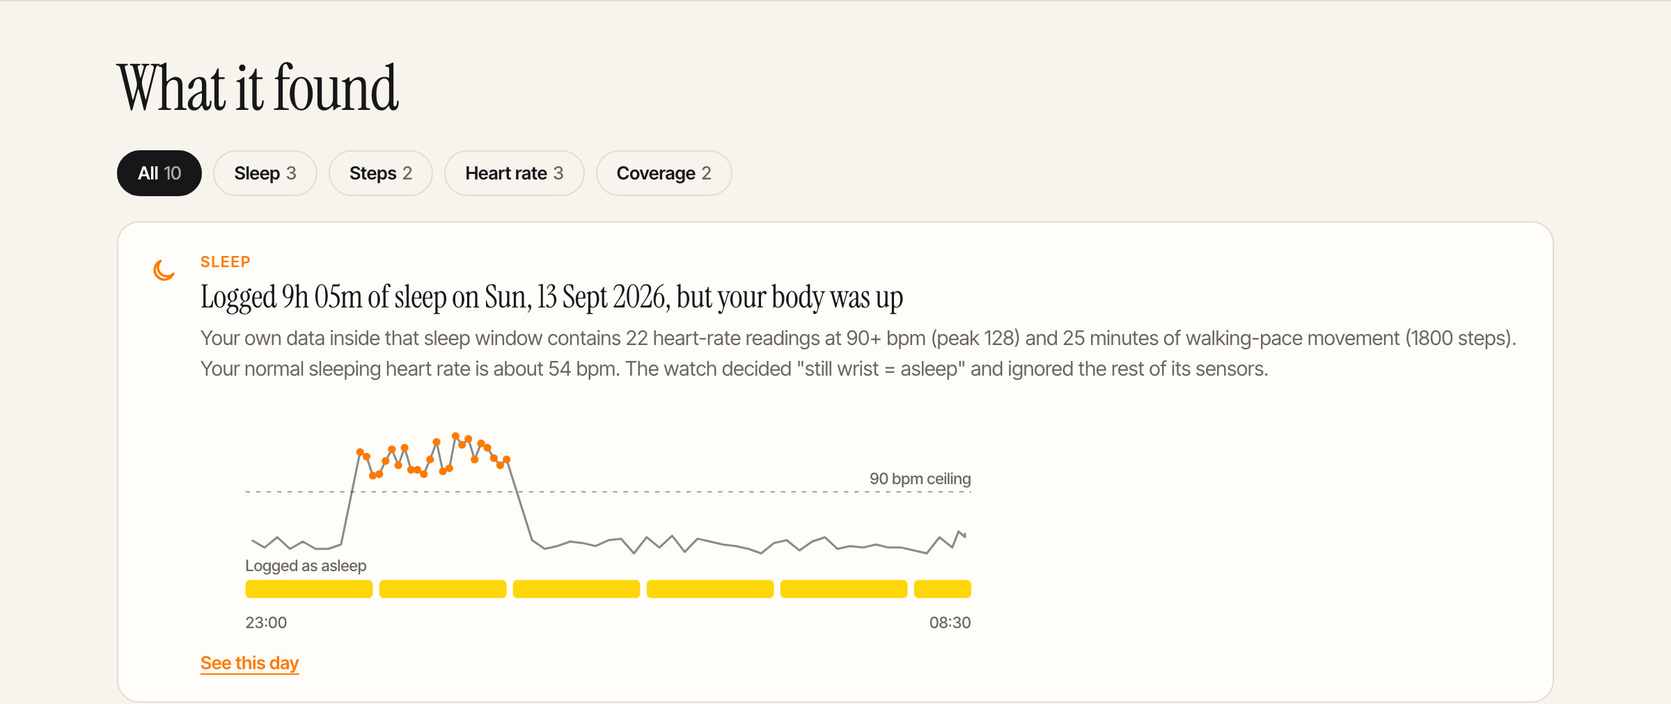
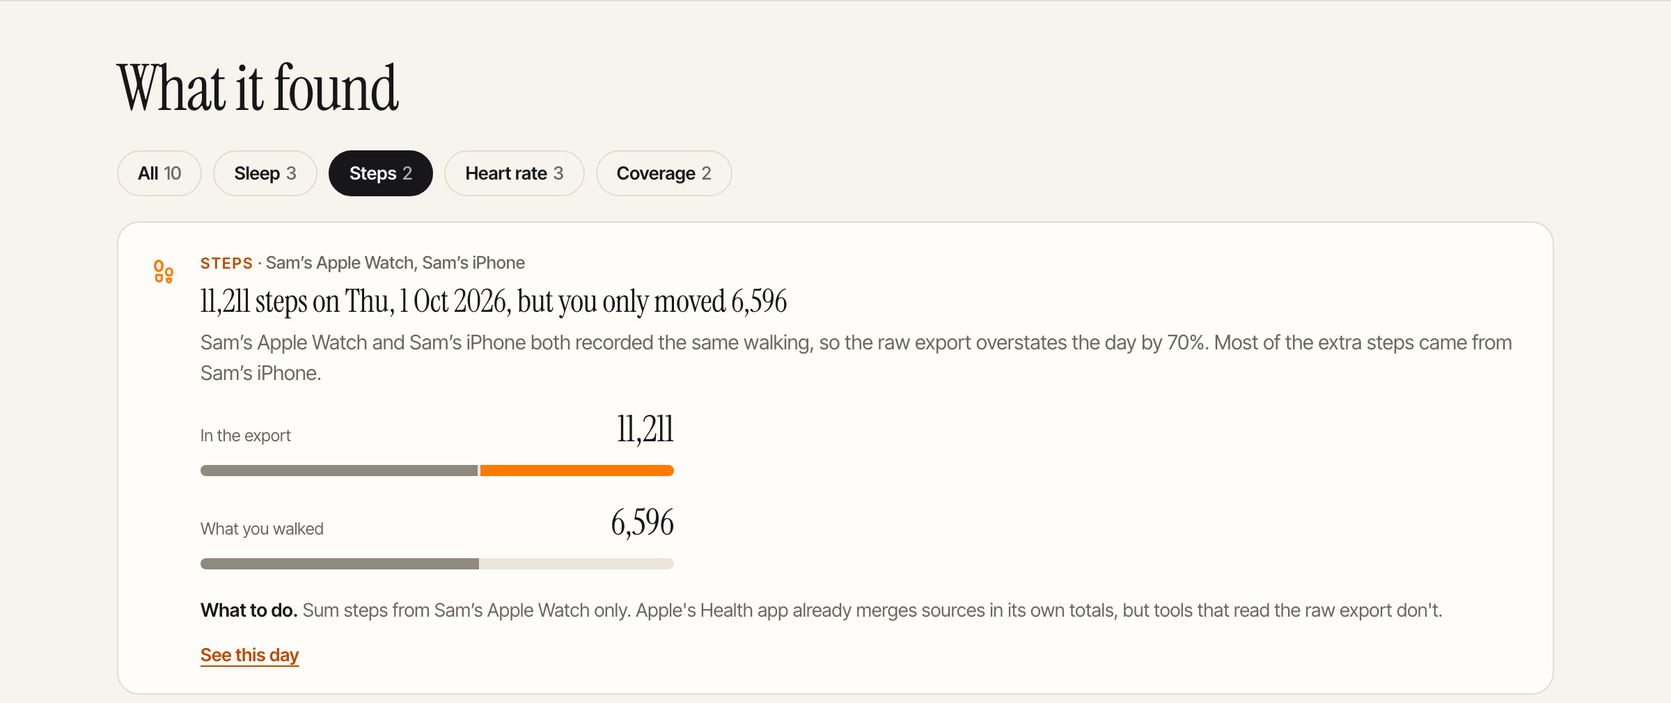
Name the sources behind each finding
The analyzer now tracks the sourceName of every step, heart-rate and sleep
record. Findings say which source recorded a glitch, which sources logged
the same night, and which source added the extra steps, and each ends with
a plain 'What to do' line. A new 'Where your data comes from' section lists
every source with its counts and explains the step overlap. Tests cover the
attribution and a single-source export that must claim no overlap.

diff --git a/analyzer.js b/analyzer.js
@@ -36,6 +36,8 @@
   const fmtDay = (di) => new Date(di * 86400000).toLocaleDateString('en-GB', { weekday: 'short', day: 'numeric', month: 'short', year: 'numeric', timeZone: 'UTC' });
   const hhmm = (min) => new Date(min * 60000).toISOString().slice(11, 16);
   const clamp = (x, lo, hi) => Math.max(lo, Math.min(hi, x));
+  const joinNames = (a) => a.length < 3 ? a.join(' and ') : a.slice(0, -1).join(', ') + ' and ' + a[a.length - 1];
+  const KIND = ['watch', 'phone', 'other'];
 
   /* ---------- streaming XML parser ---------- */
   function createParser(analyzer) {
@@ -66,7 +68,16 @@
   /* ---------- analyzer ---------- */
   function createAnalyzer() {
     const steps = new Map(); // day index -> Float32Array(3 * 1440): watch, phone, other per minute
-    const hrRaw = { t: [], v: [], c: [] };
+    const hrRaw = { t: [], v: [], c: [], n: [] };
+    const names = [], nameIdx = new Map(), srcCls = [], srcStat = [];   // one entry per sourceName
+    function srcId(name, c) {
+      let i = nameIdx.get(name);
+      if (i === undefined) {
+        i = Math.min(names.length, 65534); nameIdx.set(name, i);
+        if (i === names.length) { names.push(name); srcCls.push(c); srcStat.push({ steps: 0, hr: 0, sleep: 0 }); }
+      }
+      return i;
+    }
     const sleepRaw = [];
     const workoutRaw = [];
     const counts = { steps: 0, hr: 0, sleep: 0, workouts: 0 };
@@ -81,20 +92,20 @@
     function addRecord(a) {
       if (!a.startDate || !a.endDate) return;
       const t = a.type, s = parseTime(a.startDate);
-      const c = srcClass(a.sourceName || '');
+      const nm = a.sourceName || 'Unknown source', c = srcClass(nm), sid = srcId(nm, c);
       if (t === T_STEPS) {
         const v = +a.value; if (!(v >= 0)) return;
         const e = Math.max(s + 1, parseTime(a.endDate)), dur = e - s;
-        counts.steps++;
+        counts.steps++; srcStat[sid].steps++;
         if (dur <= 30) { const per = v / dur; for (let m = s; m < e; m++) addStep(m, c, per); }
         else addStep(s, c, v);
       } else if (t === T_HR) {
         const v = +a.value; if (!isFinite(v)) return;
-        hrRaw.t.push(s); hrRaw.v.push(v); hrRaw.c.push(c); counts.hr++;
+        hrRaw.t.push(s); hrRaw.v.push(v); hrRaw.c.push(c); hrRaw.n.push(sid); srcStat[sid].hr++; counts.hr++;
       } else if (t === T_SLEEP) {
         const val = a.value || '';
         const k = /InBed/.test(val) ? 0 : /Awake/.test(val) ? 2 : 1; // 0 in bed, 1 asleep, 2 awake
-        sleepRaw.push({ s, e: parseTime(a.endDate), k, c }); counts.sleep++;
+        sleepRaw.push({ s, e: parseTime(a.endDate), k, c, n: sid }); srcStat[sid].sleep++; counts.sleep++;
       }
     }
     function addWorkout(a) {
@@ -106,8 +117,8 @@
       /* sort heart rate */
       const n = hrRaw.t.length;
       const order = Array.from({ length: n }, (_, i) => i).sort((a, b) => hrRaw.t[a] - hrRaw.t[b]);
-      const ht = new Float64Array(n), hv = new Float32Array(n), hc = new Uint8Array(n);
-      for (let i = 0; i < n; i++) { const j = order[i]; ht[i] = hrRaw.t[j]; hv[i] = hrRaw.v[j]; hc[i] = hrRaw.c[j]; }
+      const ht = new Float64Array(n), hv = new Float32Array(n), hc = new Uint8Array(n), hn = new Uint16Array(n);
+      for (let i = 0; i < n; i++) { const j = order[i]; ht[i] = hrRaw.t[j]; hv[i] = hrRaw.v[j]; hc[i] = hrRaw.c[j]; hn[i] = hrRaw.n[j]; }
 
       /* time range */
       let minAll = Infinity, maxAll = -Infinity;
@@ -133,12 +144,12 @@
       const blipEv = [], impEv = [];
       for (let i = 0; i < n; i++) {
         const v = hv[i];
-        if (v < 30 || v > 230) { impossible++; dayBad[dayOf(ht[i])]++; impEv.push({ m: ht[i], v }); }
+        if (v < 30 || v > 230) { impossible++; dayBad[dayOf(ht[i])]++; impEv.push({ m: ht[i], v, sid: hn[i] }); }
         if (i > 0 && i < n - 1) {
           const p = hv[i - 1], nx = hv[i + 1];
           if (ht[i + 1] - ht[i - 1] <= 10 && Math.abs(v - p) >= 60 && Math.abs(v - nx) >= 60 && Math.abs(p - nx) <= 25 &&
               v >= 30 && v <= 230 && !inW(ht[i])) {
-            blips++; dayBad[dayOf(ht[i])]++; blipEv.push({ m: ht[i], v, p, nx });
+            blips++; dayBad[dayOf(ht[i])]++; blipEv.push({ m: ht[i], v, p, nx, sid: hn[i] });
           }
         }
       }
@@ -147,14 +158,16 @@
       blipEv.sort((a, b) => Math.abs(b.v - (b.p + b.nx) / 2) - Math.abs(a.v - (a.p + a.nx) / 2));
       for (const b of blipEv.slice(0, 2)) receipts.push({
         kind: 'hr', severity: 62, date: fmtDay(Math.floor(b.m / DAY)), day: Math.floor(b.m / DAY), chart: { type: 'blip', at: b.m, v: Math.round(b.v), pts: around(b.m, 20) },
+        sources: [names[b.sid]], fix: 'Check how snugly the band sits. Readings like this are usually a loose strap, and they are safe to filter out.',
         title: `Heart rate "jumped" to ${Math.round(b.v)} bpm for a single reading`,
-        detail: `At ${hhmm(b.m)} on ${fmtDay(Math.floor(b.m / DAY))} it read ${Math.round(b.p)}, then ${Math.round(b.v)}, then ${Math.round(b.nx)} bpm within minutes, outside any workout. A physiological spike doesn't reverse itself that fast; this is a sensor glitch (usually a loose strap).`
+        detail: `${names[b.sid]} recorded ${Math.round(b.p)}, then ${Math.round(b.v)}, then ${Math.round(b.nx)} bpm within minutes at ${hhmm(b.m)} on ${fmtDay(Math.floor(b.m / DAY))}, outside any workout. A physiological spike doesn't reverse itself that fast; this is a sensor glitch.`
       });
       impEv.sort((a, b) => Math.abs(b.v - 130) - Math.abs(a.v - 130));
       for (const b of impEv.slice(0, 2)) receipts.push({
         kind: 'hr', severity: 72, date: fmtDay(Math.floor(b.m / DAY)), day: Math.floor(b.m / DAY), chart: { type: 'blip', at: b.m, v: Math.round(b.v), pts: around(b.m, 20) },
+        sources: [names[b.sid]], fix: 'Check how snugly the band sits, and filter readings outside 30–230 bpm before averaging.',
         title: `An impossible heart rate: ${Math.round(b.v)} bpm`,
-        detail: `Recorded at ${hhmm(b.m)} on ${fmtDay(Math.floor(b.m / DAY))}. Outside 30–230 bpm isn't a plausible human reading; it's stored in your export all the same.`
+        detail: `${names[b.sid]} recorded this at ${hhmm(b.m)} on ${fmtDay(Math.floor(b.m / DAY))}. Outside 30–230 bpm isn't a plausible human reading; it's stored in your export all the same.`
       });
 
       /* ===== sleep vs. body ===== */
@@ -162,14 +175,14 @@
       const blocks = [];
       for (const iv of asl) {
         const b = blocks[blocks.length - 1];
-        if (b && iv.s <= b.e) { b.e = Math.max(b.e, iv.e); b.raw += iv.e - iv.s; b.cls |= 1 << iv.c; }
-        else blocks.push({ s: iv.s, e: iv.e, raw: iv.e - iv.s, cls: 1 << iv.c });
+        if (b && iv.s <= b.e) { b.e = Math.max(b.e, iv.e); b.raw += iv.e - iv.s; b.cls |= 1 << iv.c; b.srcs.add(iv.n); }
+        else blocks.push({ s: iv.s, e: iv.e, raw: iv.e - iv.s, cls: 1 << iv.c, srcs: new Set([iv.n]) });
       }
       const sessions = [];
       for (const b of blocks) {
         const cur = sessions[sessions.length - 1];
-        if (cur && b.s - cur.e <= 90) { cur.e = b.e; cur.blocks.push(b); cur.asleepMin += b.e - b.s; cur.raw += b.raw; cur.cls |= b.cls; }
-        else sessions.push({ s: b.s, e: b.e, blocks: [b], asleepMin: b.e - b.s, raw: b.raw, cls: b.cls });
+        if (cur && b.s - cur.e <= 90) { cur.e = b.e; cur.blocks.push(b); cur.asleepMin += b.e - b.s; cur.raw += b.raw; cur.cls |= b.cls; b.srcs.forEach((x) => cur.srcs.add(x)); }
+        else sessions.push({ s: b.s, e: b.e, blocks: [b], asleepMin: b.e - b.s, raw: b.raw, cls: b.cls, srcs: new Set(b.srcs) });
       }
       const scored = sessions.filter((x) => x.asleepMin >= 90);
 
@@ -213,36 +226,42 @@
           flaggedNights++;
           const main = pens.slice().sort((a, b) => b.pen - a.pen)[0].key;
           const dur = fmtDur(ss.asleepMin), day = fmtDay(wakeDi + firstDay);
-          let title, detail;
+          const sn = [...ss.srcs].map((i) => names[i]), watchN = [...ss.srcs].filter((i) => srcCls[i] === W).map((i) => names[i]);
+          let title, detail, fix;
           if (main === 'conflict') {
             const bits = [];
             if (hrElev) bits.push(`${hrElev} heart-rate readings at ${Math.round(thr)}+ bpm (peak ${Math.round(hrPeak)})`);
             if (walk.size) bits.push(`${walk.size} minutes of walking-pace movement (${Math.round(walkSteps)} steps)`);
             title = `Logged ${dur} of sleep on ${day}, but your body was up`;
-            detail = `Your own data inside that sleep window contains ${bits.join(' and ')}. Your normal sleeping heart rate is about ${Math.round(medSleepHr || 0)} bpm. The watch decided "still wrist = asleep" and ignored the rest of its sensors.`;
+            detail = `Your own data inside that sleep window contains ${bits.join(' and ')}. Your normal sleeping heart rate is about ${Math.round(medSleepHr || 0)} bpm. ${watchN.length ? joinNames(watchN) : 'The device'} decided "still wrist = asleep" and ignored the rest of its sensors.`;
+            fix = 'Treat this night as unreliable. Sleep detection that leans on a still wrist can log time awake as sleep.';
           } else if (main === 'long') {
             title = `${dur} of "sleep" on ${day}: the watch was probably on a table`;
-            detail = `That's longer than almost anyone sleeps, and the window holds only ${hrN} heart-rate readings. A still wrist with little pulse data gets logged as sleep.`;
+            detail = `${joinNames(sn)} logged this. That's longer than almost anyone sleeps, and the window holds only ${hrN} heart-rate readings. A still wrist with little pulse data gets logged as sleep.`;
+            fix = 'Wear the watch to bed, or ignore sleep sessions that have almost no heart-rate readings.';
           } else if (main === 'dup') {
             title = `Slept ${dur} on ${day}, or ${fmtDur(ss.raw)} if you add up the export`;
-            detail = `Two sources (e.g. phone and watch) both logged the same night as asleep. Anyone summing the raw export counts it twice.`;
+            detail = `${sn.length > 1 ? joinNames(sn) + ' both' : 'Two overlapping records from ' + (sn[0] || 'one source')} logged the same night as asleep. Anyone summing the raw export counts it twice.`;
+            fix = `Keep sleep tracking on one device or app${watchN.length ? ', ideally ' + watchN[0] : ''}, and sum sleep from a single source.`;
           } else {
             title = `${dur} of sleep on ${day} without any heart-rate data`;
-            detail = `A watch logged the sleep, but only ${hrN} pulse readings exist in that window. Nothing corroborates it.`;
+            detail = `${watchN.length ? joinNames(watchN) : 'A watch'} logged the sleep, but only ${hrN} pulse readings exist in that window. Nothing corroborates it.`;
+            fix = 'Check the watch was worn and its heart-rate sensor was on overnight.';
           }
           const pts = [];
           for (let i = lowerBound(ht, ss.s); i < n && ht[i] < ss.e; i++) pts.push([ht[i], Math.round(hv[i])]);
           const stp = Math.max(1, Math.ceil(pts.length / 160));
           const chart = { type: 'sleep', s: ss.s, e: ss.e, thr: Math.round(thr), peak: Math.round(hrPeak),
             pts: pts.filter((p, i) => i % stp === 0 || p[1] >= thr), blocks: ss.blocks.map((b) => [b.s, b.e]) };
-          receipts.push({ kind: 'sleep', severity: Math.round((1 - trust) * 100), date: day, day: wakeDi + firstDay, title, detail, chart });
+          receipts.push({ kind: 'sleep', severity: Math.round((1 - trust) * 100), date: day, day: wakeDi + firstDay, title, detail, fix, sources: sn, chart });
         }
       }
       const sleepScore = sleepDen ? (sleepNum / sleepDen) * 100 : null;
 
       /* ===== steps: double counting ===== */
       const dayRaw = new Float64Array(nDays), dayDedup = new Float64Array(nDays);
-      let rawTot = 0, dedupTot = 0, implaus = 0;
+      let rawTot = 0, dedupTot = 0, implaus = 0, minAny = 0, minBoth = 0;
+      const extraBy = [0, 0, 0], keptBy = [0, 0, 0];
       for (const [day, a] of steps) {
         const di = day - firstDay;
         for (let i = 0; i < DAY; i++) {
@@ -251,8 +270,19 @@
           const mx = Math.max(w, p, o);
           dayRaw[di] += raw; dayDedup[di] += mx; rawTot += raw; dedupTot += mx;
           if (mx > 250) implaus++;
+          minAny++;
+          if ((w > 0) + (p > 0) + (o > 0) >= 2) {
+            minBoth++;
+            const mi = w >= p && w >= o ? 0 : p >= o ? 1 : 2;
+            keptBy[mi] += mx;
+            if (mi !== 0) extraBy[0] += w; if (mi !== 1) extraBy[1] += p; if (mi !== 2) extraBy[2] += o;
+          }
         }
       }
+      const classTop = (c, key) => { let best = -1; names.forEach((nm, i) => { if (srcCls[i] === c && srcStat[i][key] > 0 && (best < 0 || srcStat[i][key] > srcStat[best][key])) best = i; }); return best < 0 ? null : names[best]; };
+      const argmax = (a) => (a[0] >= a[1] && a[0] >= a[2] ? 0 : a[1] >= a[2] ? 1 : 2);
+      const keepC = argmax(keptBy), extraC = argmax(extraBy);
+      const keepName = minBoth ? classTop(keepC, 'steps') : null, extraName = minBoth && extraC !== keepC ? classTop(extraC, 'steps') : null;
       const infl = dedupTot ? rawTot / dedupTot - 1 : 0;
       const stepsScore = dedupTot ? clamp(100 * (1 - Math.min(1, infl * 1.5)) - Math.min(20, implaus / 10), 0, 100) : null;
       const stepPenByDay = new Map();
@@ -268,7 +298,9 @@
       for (const d of stepDays.slice(0, 3)) receipts.push({
         kind: 'steps', severity: Math.round(Math.min(100, d.f * 100)), date: fmtDay(d.di + firstDay), day: d.di + firstDay, chart: { type: 'steps', raw: Math.round(d.raw), dedup: Math.round(d.dedup) },
         title: `${Math.round(d.raw).toLocaleString('en-US')} steps on ${fmtDay(d.di + firstDay)}, but you only moved ${Math.round(d.dedup).toLocaleString('en-US')}`,
-        detail: `Phone and watch both recorded the same walking, so the raw export overstates the day by ${Math.round(d.f * 100)}%. Apple's own Health app de-duplicates this, but anyone analysing the raw export (apps, researchers, clinical pipelines) doesn't.`
+        sources: [keepName, extraName].filter(Boolean),
+        fix: `Sum steps from ${keepName || 'one source'} only. Apple's Health app already merges sources in its own totals, but tools that read the raw export don't.`,
+        detail: `${keepName && extraName ? keepName + ' and ' + extraName : 'Phone and watch'} both recorded the same walking, so the raw export overstates the day by ${Math.round(d.f * 100)}%.${extraName ? ' Most of the extra steps came from ' + extraName + '.' : ''}`
       });
 
       /* ===== coverage / gaps ===== */
@@ -279,6 +311,8 @@
       let fh = hours.indexOf(1), lh = hours.lastIndexOf(1);
       let coverageScore = null, recurring = null, darkRuns = [], hoursLost = 0, coverageDays = 0, avgHours = 0;
       const covByDay = new Map();
+      const topHr = names.length ? names.reduce((best, _, i) => (srcStat[i].hr > srcStat[best].hr ? i : best), 0) : -1;
+      const watchName = classTop(W, 'hr') || (topHr >= 0 && srcStat[topHr].hr > 0 ? names[topHr] : null);
       if (fh >= 0) {
         const d0 = Math.floor(fh / 24), d1 = Math.floor(lh / 24);
         let sum = 0;
@@ -307,12 +341,15 @@
         if (recurring) receipts.push({
           kind: 'coverage', severity: 45, date: '', day: null, chart: { type: 'gaps', hour: recurring.hour },
           title: `Your watch goes dark around ${String(recurring.hour).padStart(2, '0')}:00 on ${recurring.days} of ${recurring.of} days`,
-          detail: `That's the charging window. It silently removes about ${(hoursLost / coverageDays).toFixed(1)} h/day from your record, and anything computed per-day (average heart rate, active time) is computed over a different slice of the day each time.`
+          sources: watchName ? [watchName] : [],
+          fix: 'Charging at a time you are not wearing it for sleep or a workout keeps those periods covered.',
+          detail: `${watchName ? watchName + ' stops recording here. ' : ''}That's the charging window. It silently removes about ${(hoursLost / coverageDays).toFixed(1)} h/day from your record, and anything computed per-day (average heart rate, active time) is computed over a different slice of the day each time.`
         });
         darkRuns.sort((a, b) => b.len - a.len);
         for (const r of darkRuns.slice(0, 1)) receipts.push({
           kind: 'coverage', severity: 55, date: fmtDay(r.from + firstDay), day: r.from + firstDay,
           title: `${r.len} day${r.len > 1 ? 's' : ''} of nothing starting ${fmtDay(r.from + firstDay)}`,
+          fix: 'Check whether the watch ran out of battery or was left off that day.',
           detail: `No heart-rate data at all. In a daily summary these days look like "0", not "missing", unless the reader knows to check.`
         });
       }
@@ -352,7 +389,10 @@
           rawSteps: Math.round(rawTot), dedupSteps: Math.round(dedupTot), inflation: infl, implausibleStepMinutes: implaus,
           hrSamples: n, hrImpossible: impossible, hrBlips: blips,
           coverageDays, avgHoursWithData: avgHours, hoursLostToShortGaps: hoursLost, recurringGap: recurring,
-          darkDays: darkRuns.reduce((a, r) => a + r.len, 0), longestDark: darkRuns[0] ? darkRuns[0].len : 0
+          darkDays: darkRuns.reduce((a, r) => a + r.len, 0), longestDark: darkRuns[0] ? darkRuns[0].len : 0,
+          sources: names.map((nm, i) => ({ name: nm, kind: KIND[srcCls[i]], steps: srcStat[i].steps, hr: srcStat[i].hr, sleep: srcStat[i].sleep }))
+            .sort((a, b) => (b.steps + b.hr + b.sleep) - (a.steps + a.hr + a.sleep)).slice(0, 8),
+          stepOverlap: { minutesAny: minAny, minutesBoth: minBoth, share: minAny ? minBoth / minAny : 0, extra: Math.round(rawTot - dedupTot), keep: keepName, extraFrom: extraName }
         },
         receipts: top, daily
       };

diff --git a/index.html b/index.html
@@ -275,6 +275,17 @@ h2.rh{font:400 clamp(32px,4.4vw,46px)/1 var(--serif);letter-spacing:-.02em;margi
 .dd-f{margin:0;padding:0;list-style:none;font-size:14.5px}
 .dd-f li{padding:8px 0;border-top:1px solid var(--line)}
 .dd-none{font-size:14px;color:var(--muted);margin:0}
+.tag .src{color:var(--muted);text-transform:none;letter-spacing:0;font-weight:500;font-size:12.5px}
+.fixl{margin-top:14px;font-size:13.5px;line-height:1.45;color:var(--muted)}.rc .fixl b{display:inline;font:600 13.5px/1.45 var(--sans);letter-spacing:0;margin:0;color:var(--ink)}
+.srcs{padding:6px 26px 24px}
+.srow{padding:16px 0;border-bottom:1px solid var(--line)}
+.sr-h{display:flex;align-items:center;gap:10px;flex-wrap:wrap}
+.sr-h b{font:400 23px/1.1 var(--serif);letter-spacing:-.01em}
+.bd{font-size:11px;font-weight:600;letter-spacing:.08em;text-transform:uppercase;padding:3px 9px;border-radius:99px;border:1px solid var(--line);color:var(--muted)}
+.bd-watch{background:#fff0d9;border-color:#f3d9ae;color:#7a4300}
+.sr-d{font-size:14px;color:var(--muted);margin-top:5px}
+.sr-b{height:4px;background:var(--h0);border-radius:9px;margin-top:10px;overflow:hidden}.sr-b i{display:block;height:100%;background:var(--orange);border-radius:9px}
+.ov{margin:20px 0 0;font-size:15.5px;line-height:1.55}.ov b{font-weight:600}.ov small{display:block;margin-top:6px;font-size:13.5px;color:var(--muted)}
 @media (max-width:560px){.hero{padding:28px 22px}.rwatch{width:170px}.rc>svg{display:none}.rc{padding:18px}}
 </style>
 </head>
@@ -484,6 +495,11 @@ h2.rh{font:400 clamp(32px,4.4vw,46px)/1 var(--serif);letter-spacing:-.02em;margi
     <h2 class="rh">Score breakdown</h2>
     <div class="grid" id="cards"></div>
 
+    <div id="srcsec">
+      <h2 class="rh">Where your data comes from</h2>
+      <div class="panel srcs" id="srcs"></div>
+    </div>
+
     <h2 class="rh">What it found</h2>
     <div class="filters" id="filters"></div>
     <div id="receipts"></div>
@@ -686,7 +702,26 @@ function chartHTML(r) {
   return c.type === 'sleep' ? sleepChart(c) : c.type === 'blip' ? blipChart(c) : c.type === 'steps' ? stepsChart(c) : c.type === 'gaps' ? gapChart(c) : '';
 }
 function receiptCard(r, i) {
-  return `<div class="panel rc in" style="animation-delay:${Math.min(i, 8) * 40}ms">${icon(KIND_ICON[r.kind] || 'warn')}<div class="body"><span class="tag">${r.kind === 'hr' ? 'heart rate' : r.kind}</span><b>${esc(r.title)}</b><span class="d">${esc(r.detail)}</span>${chartHTML(r)}${r.day != null ? `<button type="button" class="lnk" data-day="${r.day}">See this day</button>` : ''}</div></div>`;
+  return `<div class="panel rc in" style="animation-delay:${Math.min(i, 8) * 40}ms">${icon(KIND_ICON[r.kind] || 'warn')}<div class="body"><span class="tag">${r.kind === 'hr' ? 'heart rate' : r.kind}${r.sources && r.sources.length ? `<span class="src"> · ${esc(r.sources.join(', '))}</span>` : ''}</span><b>${esc(r.title)}</b><span class="d">${esc(r.detail)}</span>${chartHTML(r)}${r.fix ? `<p class="fixl"><b>What to do.</b> ${esc(r.fix)}</p>` : ''}${r.day != null ? `<button type="button" class="lnk" data-day="${r.day}">See this day</button>` : ''}</div></div>`;
+}
+function renderSources(rep) {
+  const f = rep.facts, list = f.sources || [], o = f.stepOverlap || {}, box = $('#srcs');
+  $('#srcsec').style.display = list.length ? '' : 'none';
+  if (!list.length) return;
+  const total = list.reduce((a, s) => a + s.steps + s.hr + s.sleep, 0) || 1, pct = Math.round((o.share || 0) * 100);
+  const rows = list.map((s) => {
+    const parts = [];
+    const pl = (n, w) => `${num(n)} ${w}${n === 1 ? '' : 's'}`;
+    if (s.hr) parts.push(pl(s.hr, 'heart-rate reading'));
+    if (s.steps) parts.push(pl(s.steps, 'step record'));
+    if (s.sleep) parts.push(pl(s.sleep, 'sleep record'));
+    return `<div class="srow"><div class="sr-h"><b>${esc(s.name)}</b><span class="bd bd-${s.kind}">${{ watch: 'Watch', phone: 'Phone', other: 'Other' }[s.kind]}</span></div><div class="sr-d">${parts.join(' · ') || 'No records this tool uses'}</div><div class="sr-b"><i style="width:${((s.steps + s.hr + s.sleep) / total * 100).toFixed(1)}%"></i></div></div>`;
+  }).join('');
+  let story = '';
+  if (o.minutesBoth > 0 && o.keep && o.extraFrom) story = `<b>${esc(o.keep)}</b> and <b>${esc(o.extraFrom)}</b> both counted steps in ${pct}% of the minutes you were moving, which adds ${num(o.extra)} steps to the raw export. Summing from ${esc(o.keep)} alone gives the real total.<small>Apple's Health app already merges sources in its own totals. This matters for anything that reads the raw export.</small>`;
+  else if (o.minutesBoth > 0) story = `More than one source counted steps in ${pct}% of the minutes you were moving, which adds ${num(o.extra)} steps to the raw export.`;
+  else if (list.some((s) => s.steps)) story = 'Only one source counted steps, so nothing is double counted.';
+  box.innerHTML = rows + (story ? `<p class="ov">${story}</p>` : '');
 }
 function renderReceipts() {
   const rs = REPORT.receipts, counts = { all: rs.length };
@@ -745,7 +780,7 @@ function render(rep) {
   }).join('');
   requestAnimationFrame(() => requestAnimationFrame(() => document.querySelectorAll('.card .m i').forEach((el) => { el.style.width = el.dataset.w + '%'; })));
 
-  renderReceipts(); renderHeat();
+  renderSources(rep); renderReceipts(); renderHeat();
   window.scrollTo({ top: 0, behavior: 'smooth' });
 }
 

diff --git a/test.js b/test.js
@@ -27,4 +27,27 @@ assert(rep.facts.darkDays >= 1, 'dark days found');
 assert(!/1970/.test(titles), 'dates are real');
 assert(rep.facts.inflation > 0.1, 'step inflation found');
 assert(rep.scores.overall > 30 && rep.scores.overall < 90, 'overall plausible');
+
+/* source attribution */
+const WATCH = 'Sam’s Apple Watch', PHONE = 'Sam’s iPhone';
+assert(rep.facts.sources.length === 2 && rep.facts.sources[0].kind === 'watch' && rep.facts.sources[1].kind === 'phone', 'sources listed with kinds');
+assert(rep.facts.stepOverlap.keep === WATCH && rep.facts.stepOverlap.extraFrom === PHONE, 'extra steps are attributed to the phone');
+assert(rep.facts.stepOverlap.share > 0.3 && rep.facts.stepOverlap.extra > 0, 'overlap measured');
+const dupR = rep.receipts.find((r) => r.kind === 'sleep' && r.date === day(truth.dupDay));
+assert(dupR.sources.includes(WATCH) && dupR.sources.includes(PHONE), 'duplicate night names both sources');
+assert(rep.receipts.filter((r) => r.kind === 'steps').every((r) => r.detail.includes(PHONE) && r.fix.includes(WATCH)), 'step findings name the phone and advise the watch');
+assert(rep.receipts.filter((r) => r.kind === 'hr').every((r) => r.sources[0] === WATCH && r.detail.includes(WATCH)), 'heart-rate findings name the watch');
+assert(rep.receipts.every((r) => typeof r.fix === 'string' && r.fix.length > 10), 'every finding says what to do');
+
+/* a single-source export must not claim any overlap */
+{
+  const one = WT.createAnalyzer(), pr = WT.createParser(one);
+  let x = '<HealthData>';
+  for (let d = 0; d < 5; d++) for (let m = 600; m < 900; m += 15) x += `<Record type="HKQuantityTypeIdentifierStepCount" sourceName="Only Watch" unit="count" startDate="2026-09-0${d + 1} ${String(Math.floor(m / 60)).padStart(2, '0')}:${String(m % 60).padStart(2, '0')}:00 +0000" endDate="2026-09-0${d + 1} ${String(Math.floor((m + 15) / 60)).padStart(2, '0')}:${String((m + 15) % 60).padStart(2, '0')}:00 +0000" value="300"/>`;
+  pr.feed(x + '</HealthData>');
+  const r1 = one.finish();
+  assert(r1.facts.sources.length === 1 && r1.facts.stepOverlap.minutesBoth === 0 && r1.facts.stepOverlap.keep === null && r1.facts.stepOverlap.extraFrom === null, 'single source: no overlap claimed');
+  assert(r1.facts.inflation === 0, 'single source: no inflation');
+}
+
 console.log('\nALL ASSERTIONS PASSED');

diff --git a/README.md b/README.md
@@ -30,7 +30,11 @@ Your own watch is the result: each ring is as long as its sub-score, and the num
 
 ![The result: a watch whose four rings show the sleep, steps, heart-rate and coverage scores](docs/results.jpg)
 
-**Findings** are dated and come with a chart drawn from your own readings: the night's heart rate against its sleeping ceiling, the single reading and the minutes around it, or the raw step total against what you actually walked. Filter them by sleep, steps, heart rate or coverage.
+**Where your data comes from** lists every source in the export (watch, phone or other) with its record counts. When two sources counted the same steps it says which ones, how much they added to the raw export, and which one to sum from.
+
+![The sources in an export, with how much the phone and watch overlap on steps](docs/sources.jpg)
+
+**Findings** name the source or sources behind them, say what to do about it, and come with a chart drawn from your own readings: the night's heart rate against its sleeping ceiling, the single reading and the minutes around it, or the raw step total against what you actually walked. Each one ends with a plain "What to do" line. Filter them by sleep, steps, heart rate or coverage.
 
 ![Findings with charts and category filters](docs/findings.jpg)
 
@@ -106,7 +110,7 @@ To get an export: Health app → your profile picture → **Export All Health Da
 
 ## Test
 
-`sample.js` generates a synthetic export with known faults planted in it: a night spent dancing, a night logged by two sources, a watch left on a desk, heart-rate glitches, a dead day. `test.js` checks that each one is found, and that the parser copes with records split across chunk boundaries.
+`sample.js` generates a synthetic export with known faults planted in it: a night spent dancing, a night logged by two sources, a watch left on a desk, heart-rate glitches, a dead day. `test.js` checks that each one is found, that the right source is named for each (the phone for the extra steps, the watch for the glitches), that a single-source export claims no overlap, and that the parser copes with records split across chunk boundaries.
 
 ```bash
 node test.js
